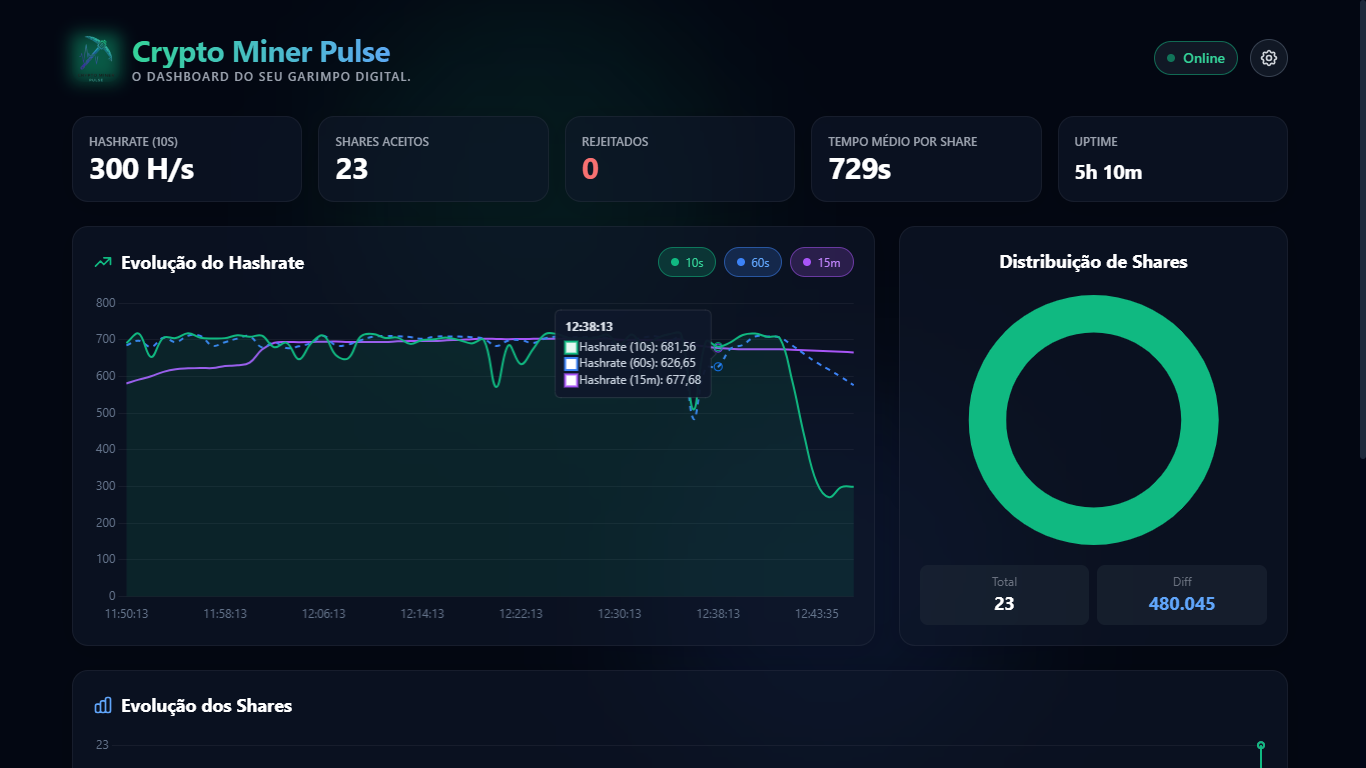
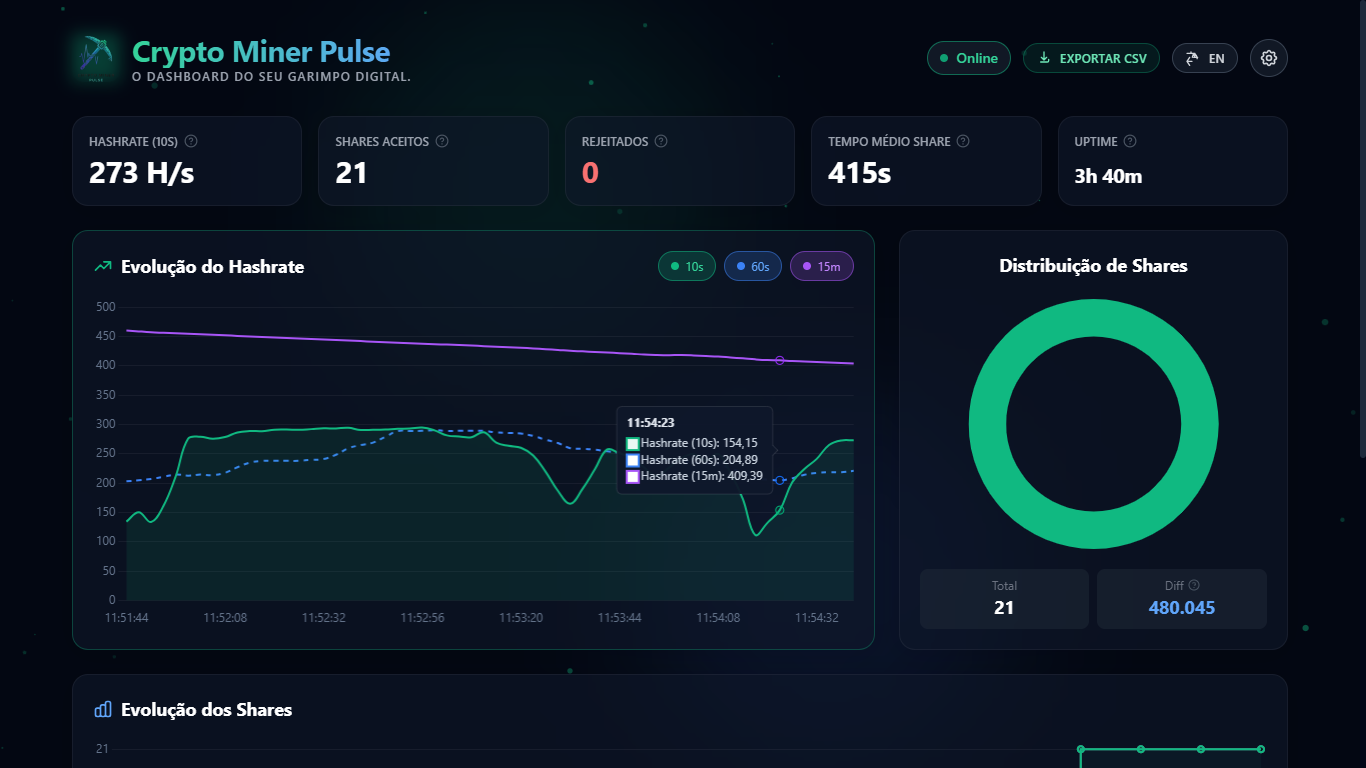
DOCS - Update README

diff --git a/README.md b/README.md
@@ -44,6 +44,13 @@ O projeto foi construído com foco em performance e zero dependências de servid
 * **🔌 Integração XMRig:** Exibição de metadados da estação, como CPU Brand, Algoritmo, Pool e status de *Huge Pages*.
 * **📱 Responsividade Total:** Design adaptável para monitorar seu garimpo pelo celular ou desktop.
 * **🌐 Sem Instalação:** Basta acessar o link e configurar o IP da sua máquina de mineração.
+* **🟢 Status em Tempo Real:** Indicadores de online/offline com feedback visual imediato em caso de falha.
+* **🧭 Configurações Flexíveis:** Ajuste de URL da API e intervalo de atualização direto no painel.
+* **🧾 Exportação de Dados:** Baixe todo o histórico coletado em CSV para análises externas.
+* **🌍 Modo Bilíngue:** Alternância rápida entre português e inglês com textos e gráficos traduzidos.
+* **🧠 Persistência Inteligente:** Salva dados no navegador e restaura gráficos da última hora ao recarregar.
+* **🎛 Controle de Séries:** Ative ou desative os datasets do gráfico de hashrate com um clique.
+* **✨ UI Informativa:** Tooltips explicativos e animações sutis para destacar mudanças de hashrate.
 
 ---
 
@@ -68,6 +75,7 @@ Para começar a monitorar agora mesmo, siga estes passos:
 2. **Acesse o Dashboard:** Clique no link abaixo:
 👉 **[https://danieldpereira.github.io/crypto-miner-pulse/](https://danieldpereira.github.io/crypto-miner-pulse/)**
 3. **Conecte:** Clique no ícone de engrenagem ⚙ e insira o endereço IP da sua máquina (ex: `http://192.168.1.10:20100/2/summary`).
+4. **Personalize:** Ajuste o intervalo de atualização, exporte o CSV ou altere o idioma quando quiser.
 
 ---
 
